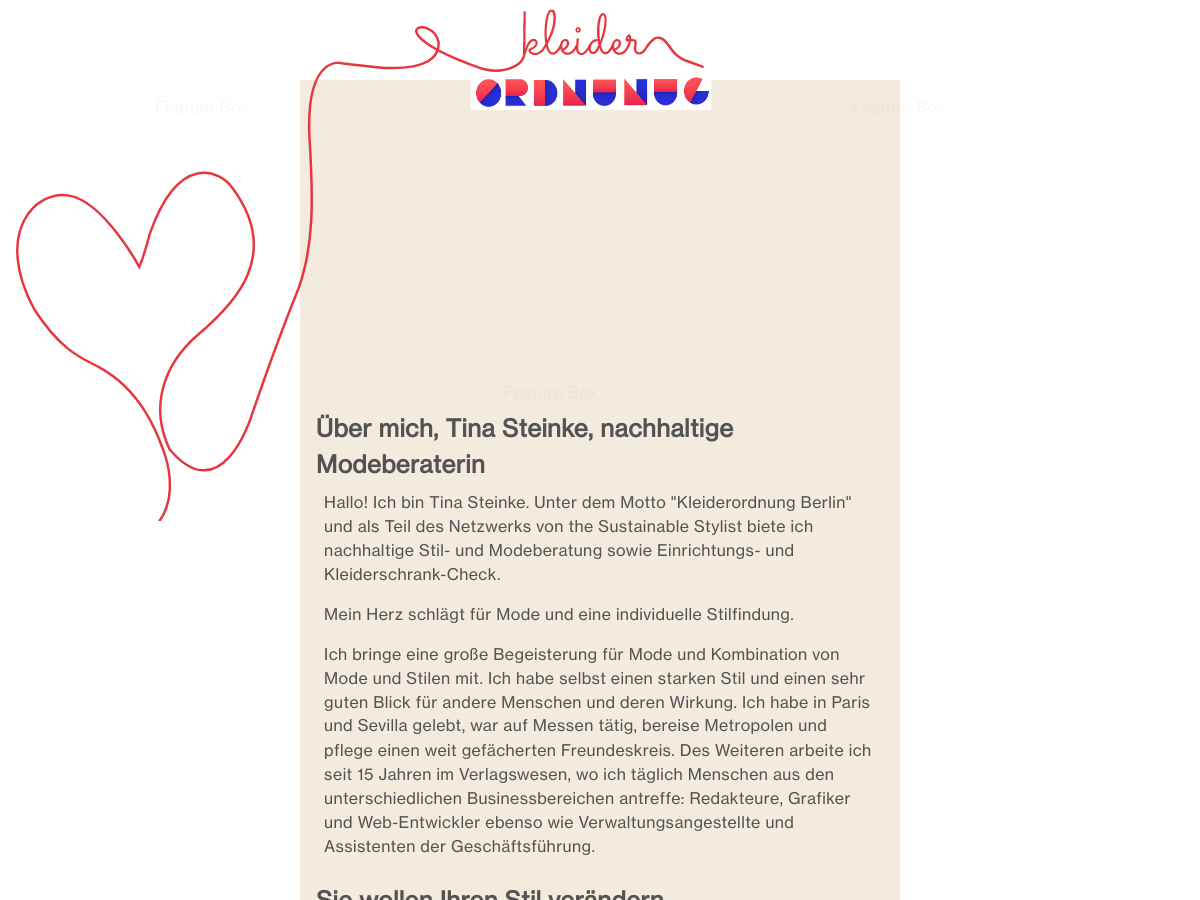
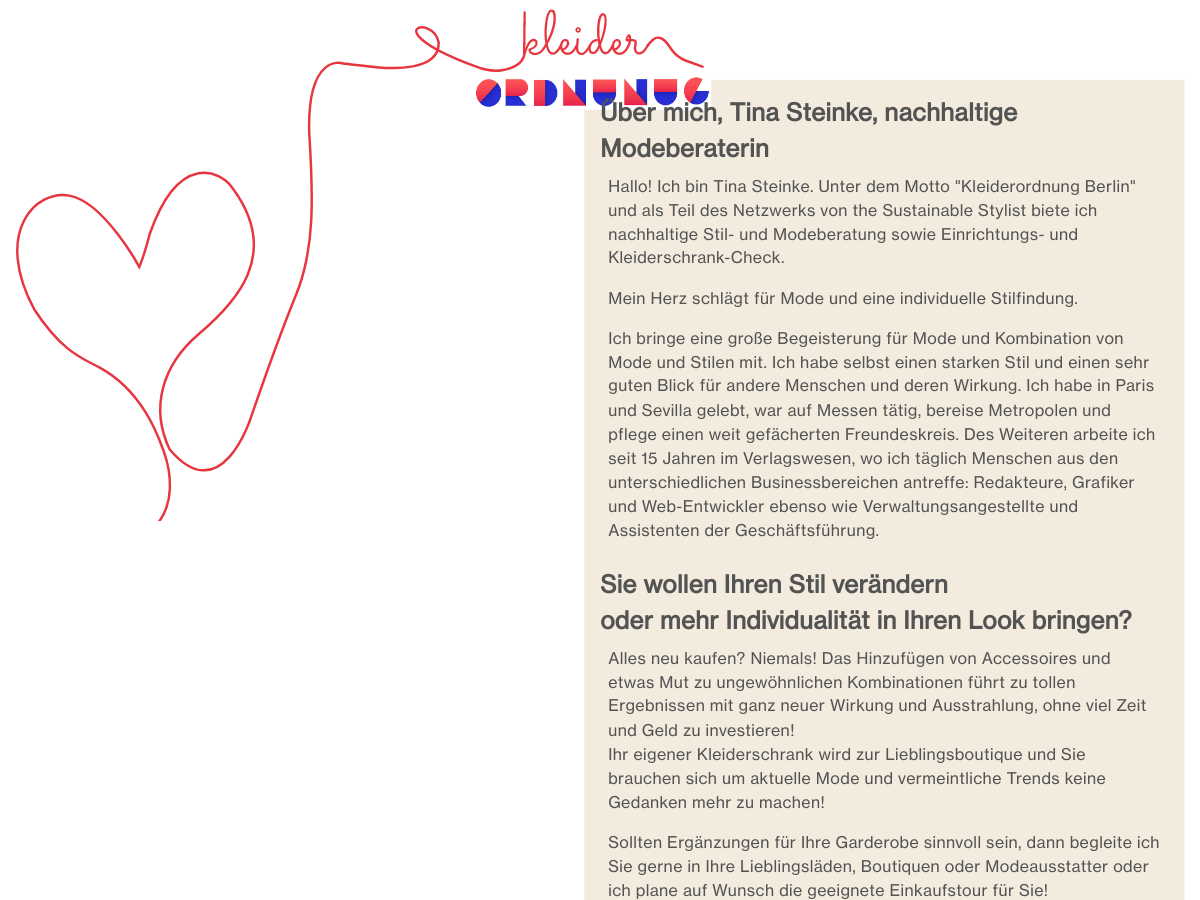
layout and style fixes and improvements

diff --git a/dist/styles.css b/dist/styles.css
@@ -121,7 +121,7 @@ body {
   background: var(--neutral-background);
 }
 
-main, .main, p, article, section {
+main, .main, p, article, section, .footer {
   background-color: var(--primary-backround);
   color: var(--primary-foreground);
   font-family: "Neue Haas", Helvetica, sans-serif;
@@ -150,8 +150,14 @@ nav, #lightbox-wrapper {
 }
 
 .main {
-  margin: 0 auto;
+  margin: 0 1em 0 auto;
   max-width: 600px;
+}
+
+.footer {
+  text-align: center;
+  margin: 2em 0 0 0;
+  padding: 0.5em;
 }
 
 .feature__container {
@@ -178,6 +184,21 @@ nav, #lightbox-wrapper {
   padding: 0.5em;
 }
 
+a, a:link, a:visited, a:hover, a:active, a:focus {
+  text-decoration: none;
+  color: var(--primary-foreground);
+}
+
+.social a + a {
+  margin-left: 0.5em;
+}
+
+.social svg {
+  height: 2em;
+  width: auto;
+  border-radius: 0.125em;
+}
+
 @media (max-width: 768px) {
   .feature__container {
     flex-direction: column;
@@ -185,9 +206,20 @@ nav, #lightbox-wrapper {
 }
 
 /* TODO add styles, effects, and animations from customized Colorway Barber Shop Template */
+/* TODO technical SEO and content SEM:
+  - [ ] meaningful, unique heading content (not just "about me" or "imprint")
+  - [ ] printable as pdf
+  - [ ] mobile-friendly
+  - [ ] accessible / screen reader friendly / tab navigateable
+  - [ ] vcard download option?
+  - [ ] ...
+  - [ ] configure additional performance and security headers using .htaccess only if necessary
+  - [ ] configure colors that provide necessary contrast to comply with WCAG 2.0 (might as well customize theme for the client?)
+  - [ ] ^ this would be OK to be specific for the chosen font(s) for Kleiderordnung
+ */
 
 .animate--on-visibility {
   /* class will be used by JS intersection observer */
 }
 
[2 lines of base64/hex data omitted]

diff --git a/dist/index.html b/dist/index.html
@@ -145,17 +145,24 @@
             </h2>
             <address class=vcard>
               <div>
-                <h2 class=fn itemprop=name><img src="img/Martina-Steinke.svg" alt="Martina Steinke" width="438" height="119"></h2>
+                <h2><img src="img/Martina-Steinke.svg" alt="Martina Steinke" width="438" height="119"></h2>
+                <div class=fn itemprop=name>Martina Steinke</div>
                 <div class=jobtitle itemprop=jobTitle>Modeberaterin und Stylistin (Sustainable Stylist)</div>
-                <a class=telephone itemprop=telephone href="tel:+491636823820">
-                  <span class="visually-spaced">0</span>
-                  <span class="visually-spaced dot-after">163</span>
-                  <span class="visually-spaced">682</span>
-                  <span class="visually-spaced">382</span>
-                  <span class="visually-spaced">0</span>
-                </a>
-                <a class=email itemprop=email itemscope=email href="mailto:martinasteinke@posteo.de">martinasteinke@posteo.de</a>
-                <a itemscope=url href="//www.kleiderordnung-duesseldorf.de/">www.kleiderordnung-duesseldorf.de</a>
+                <div>
+                  <a class=telephone itemprop=telephone href="tel:+491636823820">
+                    <span class="visually-spaced">0</span>
+                    <span class="visually-spaced dot-after">163</span>
+                    <span class="visually-spaced">682</span>
+                    <span class="visually-spaced">382</span>
+                    <span class="visually-spaced">0</span>
+                  </a>
+                </div>
+                <div>
+                  <a class=email itemprop=email itemscope=email href="mailto:martinasteinke@posteo.de">martinasteinke@posteo.de</a>
+                </div>
+                <div>
+                  <a itemscope=url href="https://www.kleiderordnung-berlin.de/">www.kleiderordnung-berlin.de</a>
+                </div>
               </div>
               <div class=social>
                 <a href="https://www.instagram.com/kleider.ordnung/" target="_blank" rel="noopener" title="Instagram">
@@ -194,7 +201,7 @@
           </article>
         </div>
       </main>
-      <footer>
+      <footer class="footer">
         Tina Steinke, nachhaltige Modeberaterin (Sustainable Stylist) - Tel. <a class=telephone itemprop=telephone href="tel:+491636823820">
         <span class="visually-spaced">0</span>
         <span class="visually-spaced dot-after">163</span>

diff --git a/src/index.html b/src/index.html
@@ -145,17 +145,24 @@
             </h2>
             <address class=vcard>
               <div>
-                <h2 class=fn itemprop=name><img src="img/Martina-Steinke.svg" alt="Martina Steinke" width="438" height="119"></h2>
+                <h2><img src="img/Martina-Steinke.svg" alt="Martina Steinke" width="438" height="119"></h2>
+                <div class=fn itemprop=name>Martina Steinke</div>
                 <div class=jobtitle itemprop=jobTitle>Modeberaterin und Stylistin (Sustainable Stylist)</div>
-                <a class=telephone itemprop=telephone href="tel:+491636823820">
-                  <span class="visually-spaced">0</span>
-                  <span class="visually-spaced dot-after">163</span>
-                  <span class="visually-spaced">682</span>
-                  <span class="visually-spaced">382</span>
-                  <span class="visually-spaced">0</span>
-                </a>
-                <a class=email itemprop=email itemscope=email href="mailto:martinasteinke@posteo.de">martinasteinke@posteo.de</a>
-                <a itemscope=url href="//www.kleiderordnung-duesseldorf.de/">www.kleiderordnung-duesseldorf.de</a>
+                <div>
+                  <a class=telephone itemprop=telephone href="tel:+491636823820">
+                    <span class="visually-spaced">0</span>
+                    <span class="visually-spaced dot-after">163</span>
+                    <span class="visually-spaced">682</span>
+                    <span class="visually-spaced">382</span>
+                    <span class="visually-spaced">0</span>
+                  </a>
+                </div>
+                <div>
+                  <a class=email itemprop=email itemscope=email href="mailto:martinasteinke@posteo.de">martinasteinke@posteo.de</a>
+                </div>
+                <div>
+                  <a itemscope=url href="https://www.kleiderordnung-berlin.de/">www.kleiderordnung-berlin.de</a>
+                </div>
               </div>
               <div class=social>
                 <a href="https://www.instagram.com/kleider.ordnung/" target="_blank" rel="noopener" title="Instagram">
@@ -194,7 +201,7 @@
           </article>
         </div>
       </main>
-      <footer>
+      <footer class="footer">
         Tina Steinke, nachhaltige Modeberaterin (Sustainable Stylist) - Tel. <a class=telephone itemprop=telephone href="tel:+491636823820">
         <span class="visually-spaced">0</span>
         <span class="visually-spaced dot-after">163</span>

diff --git a/dist/css/styles.css b/dist/css/styles.css
@@ -121,7 +121,7 @@ body {
   background: var(--neutral-background);
 }
 
-main, .main, p, article, section {
+main, .main, p, article, section, .footer {
   background-color: var(--primary-backround);
   color: var(--primary-foreground);
   font-family: "Neue Haas", Helvetica, sans-serif;
@@ -150,8 +150,14 @@ nav, #lightbox-wrapper {
 }
 
 .main {
-  margin: 0 auto;
+  margin: 0 1em 0 auto;
   max-width: 600px;
+}
+
+.footer {
+  text-align: center;
+  margin: 2em 0 0 0;
+  padding: 0.5em;
 }
 
 .feature__container {
@@ -178,6 +184,21 @@ nav, #lightbox-wrapper {
   padding: 0.5em;
 }
 
+a, a:link, a:visited, a:hover, a:active, a:focus {
+  text-decoration: none;
+  color: var(--primary-foreground);
+}
+
+.social a + a {
+  margin-left: 0.5em;
+}
+
+.social svg {
+  height: 2em;
+  width: auto;
+  border-radius: 0.125em;
+}
+
 @media (max-width: 768px) {
   .feature__container {
     flex-direction: column;
@@ -185,6 +206,17 @@ nav, #lightbox-wrapper {
 }
 
 /* TODO add styles, effects, and animations from customized Colorway Barber Shop Template */
+/* TODO technical SEO and content SEM:
+  - [ ] meaningful, unique heading content (not just "about me" or "imprint")
+  - [ ] printable as pdf
+  - [ ] mobile-friendly
+  - [ ] accessible / screen reader friendly / tab navigateable
+  - [ ] vcard download option?
+  - [ ] ...
+  - [ ] configure additional performance and security headers using .htaccess only if necessary
+  - [ ] configure colors that provide necessary contrast to comply with WCAG 2.0 (might as well customize theme for the client?)
+  - [ ] ^ this would be OK to be specific for the chosen font(s) for Kleiderordnung
+ */
 
 .animate--on-visibility {
   /* class will be used by JS intersection observer */

diff --git a/src/css/styles.css b/src/css/styles.css
@@ -121,7 +121,7 @@ body {
   background: var(--neutral-background);
 }
 
-main, .main, p, article, section {
+main, .main, p, article, section, .footer {
   background-color: var(--primary-backround);
   color: var(--primary-foreground);
   font-family: "Neue Haas", Helvetica, sans-serif;
@@ -150,8 +150,14 @@ nav, #lightbox-wrapper {
 }
 
 .main {
-  margin: 0 auto;
+  margin: 0 1em 0 auto;
   max-width: 600px;
+}
+
+.footer {
+  text-align: center;
+  margin: 2em 0 0 0;
+  padding: 0.5em;
 }
 
 .feature__container {
@@ -178,6 +184,21 @@ nav, #lightbox-wrapper {
   padding: 0.5em;
 }
 
+a, a:link, a:visited, a:hover, a:active, a:focus {
+  text-decoration: none;
+  color: var(--primary-foreground);
+}
+
+.social a + a {
+  margin-left: 0.5em;
+}
+
+.social svg {
+  height: 2em;
+  width: auto;
+  border-radius: 0.125em;
+}
+
 @media (max-width: 768px) {
   .feature__container {
     flex-direction: column;
@@ -185,6 +206,17 @@ nav, #lightbox-wrapper {
 }
 
 /* TODO add styles, effects, and animations from customized Colorway Barber Shop Template */
+/* TODO technical SEO and content SEM:
+  - [ ] meaningful, unique heading content (not just "about me" or "imprint")
+  - [ ] printable as pdf
+  - [ ] mobile-friendly
+  - [ ] accessible / screen reader friendly / tab navigateable
+  - [ ] vcard download option?
+  - [ ] ...
+  - [ ] configure additional performance and security headers using .htaccess only if necessary
+  - [ ] configure colors that provide necessary contrast to comply with WCAG 2.0 (might as well customize theme for the client?)
+  - [ ] ^ this would be OK to be specific for the chosen font(s) for Kleiderordnung
+ */
 
 .animate--on-visibility {
   /* class will be used by JS intersection observer */
